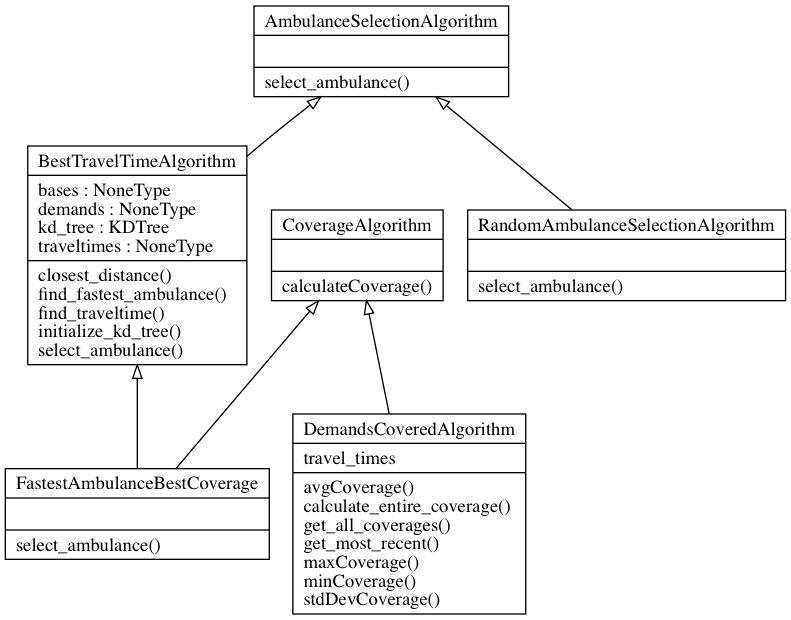
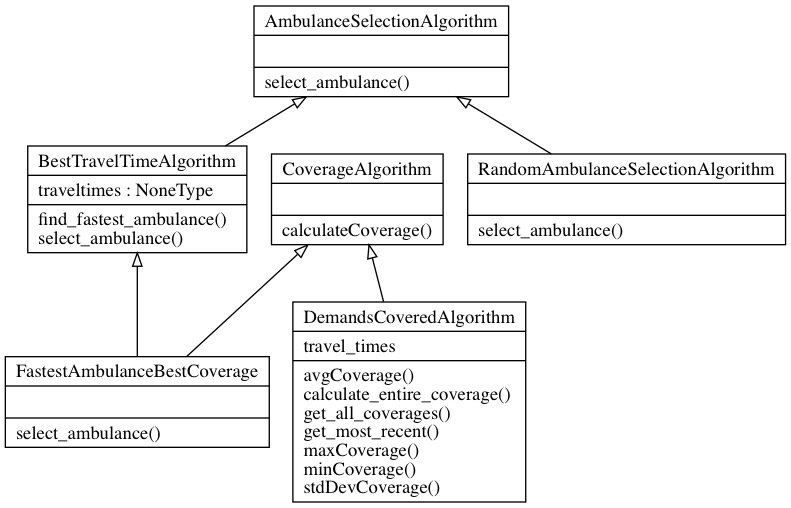
first wave of refactoring towards OOP done, sim appears to work

Changed region(s): [[0.0, 0.2362, 1.0, 1.0], [0.0303, 0.2067, 0.3641, 0.6201], [0.3034, 0.0, 0.6372, 0.2362]]

diff --git a/ems/algorithms/dispatch_fastest_ambulance.py b/ems/algorithms/dispatch_fastest_ambulance.py
@@ -2,20 +2,12 @@
 from datetime import timedelta
 from typing import List
 
-import geopy
-import geopy.distance
-import numpy as np
-
-from copy import deepcopy
-
-from scipy.spatial import KDTree
-
 from ems.algorithms.ambulance_selection import AmbulanceSelectionAlgorithm
 from ems.data.traveltimes import TravelTimes
 from ems.models.ambulance import Ambulance
-from ems.models.base import Base
+# from ems.models.base import Base
 from ems.models.case import Case
-from ems.models.demand import Demand
+# from ems.models.demand import Demand
 
 
 # An implementation of a "fastest travel time" ambulance_selection from a base to
@@ -24,21 +16,19 @@ from ems.models.demand import Demand
 class BestTravelTimeAlgorithm(AmbulanceSelectionAlgorithm):
 
     def __init__(self,
-                 bases: List[Base] = None,
-                 demands: List[Demand] = None,
                  traveltimes: TravelTimes = None):
-        self.bases = bases
-        self.demands = demands
+
         self.traveltimes = traveltimes
 
-        self.kd_tree = self.initialize_kd_tree(demands)
+        # self.kd_tree = self.initialize_kd_tree(demands)
 
     def select_ambulance(self,
                          ambulances: List[Ambulance],
                          case: Case):
 
         # Compute the closest demand point to the case location
-        closest_demand = self.closest_distance(self.demands, case.location)
+        # import IPython; IPython.embed()
+        closest_demand = self.traveltimes.find_nearest_demand(case.location)
 
         # Select an ambulance to attend to the given case and obtain the its duration of travel
         chosen_ambulance, ambulance_travel_time = self.find_fastest_ambulance(
@@ -50,19 +40,7 @@ class BestTravelTimeAlgorithm(AmbulanceSelectionAlgorithm):
         return {'choice': chosen_ambulance,
                 'travel_time': ambulance_travel_time}
 
-    def closest_distance(self, list_type, target_point):
-        """
-        Finds the closest point in the corresponding generic list.
-        For example, find the closest base given a GPS location.
-        :param list_type:
-        :param target_point:
-        :return: the position in that list
-        """
 
-        # Query kd tree for nearest neighbor
-        closest_point_ind = self.kd_tree.query((target_point.longitude, target_point.latitude))[1]
-
-        return list_type[closest_point_ind]
 
     def find_fastest_ambulance(self, ambulances, traveltimes, demand):
         """
@@ -79,7 +57,8 @@ class BestTravelTimeAlgorithm(AmbulanceSelectionAlgorithm):
 
         for amb in ambulances:
             if not amb.deployed:
-                time = self.find_traveltime(traveltimes, amb.base, demand)
+                # import IPython; IPython.embed()
+                time = traveltimes.get_time(amb.base, demand)
                 if shortest_time > time:
                     shortest_time = time
                     fastest_amb = amb
@@ -89,22 +68,9 @@ class BestTravelTimeAlgorithm(AmbulanceSelectionAlgorithm):
 
         return None, None
 
-    def find_traveltime(self, traveltimes, base, demand):
-        """
-        Takes the travel time mapping, starting base, and ending demand to find time.
-        :param base:
-        :param demand:
-        :return travel time:
-        """
 
-        return traveltimes.get_time(base, demand)
 
-    def initialize_kd_tree(self, demands):
 
-        # Form a kd-tree
-        points = [(demand.location.longitude, demand.location.latitude) for demand in demands]
-        kd_tree = KDTree(points)
-        return kd_tree
 
 
 

diff --git a/ems/data/traveltimes.py b/ems/data/traveltimes.py
@@ -1,26 +1,37 @@
 from datetime import timedelta
 
+from typing import Type
+
 from ems.models.location_set import LocationSet
+from scipy.spatial import KDTree
+from ems.models.base import Base
+from ems.models.case import Demand
+from geopy import Point
 import numpy as np
 
 
-# Wrapper class around a travel times data frame
 
 class TravelTimes:
+    """
+
+    """
 
     def __init__(self, bases:LocationSet, demands:LocationSet, times: np.ndarray):
         """
 
-        :type times: Pandas dataframe
+        :param bases:
+        :param demands:
+        :param times:
         """
-        self.bases = bases
-        self.demands = demands
-        self.times = times
 
-        #TODO
-        # self.kd_tree = self.initialize_kd_tree(demands)
+        # import IPython; IPython.embed()
+        self.bases:LocationSet = bases
+        self.demands:LocationSet = demands
+        self.times:np.ndarray = times
 
-    def get_time(self, base, demand):
+
+
+    def get_time(self, base:Base, demand:Demand):
         """
         Retrieves the travel time from the input base and demand point.
 
@@ -31,4 +42,11 @@ class TravelTimes:
         time = int(self.times[base.id][demand.id])
 
         return timedelta(seconds=time)
+
+
+    def find_nearest_base(self, target_point:Point):
+        return self.bases.closest(target_point)[0]
+
+    def find_nearest_demand(self, target_point:Point):
+        return self.demands.closest(target_point)[0]
 

diff --git a/ems/data/tijuana.py b/ems/data/tijuana.py
@@ -25,11 +25,16 @@ class CSVTijuanaDataset(Dataset):
         self.demands, self.demands_df = self.read_demands(demands_filepath)
         self.bases, self.bases_df = self.read_bases(bases_filepath)
         self.cases, self.cases_df = self.read_cases(cases_filepath)
-        self.traveltimes = self.read_times(traveltimes_filepath)
+
+
 
         # TODO
         self.basesLS = LocationSet(self.bases)
         self.demandsLS = LocationSet(self.demands)
+
+        self.traveltimes, self.traveltimes_df = self.read_times(traveltimes_filepath)
+
+        # self.traveltimes = TravelTimes(self.basesLS, self.demandsLS, )
 
 
     # Helper functions
@@ -95,10 +100,12 @@ class CSVTijuanaDataset(Dataset):
     def read_times(self, filename):
         # Read travel times from CSV file into a pandas dataframe
         traveltimes_df = pd.read_csv(filename)
+        # import IPython; IPython.embed()
 
-        traveltimes = TravelTimes(self.bases_df, self.demands_df, traveltimes_df.as_matrix())
 
-        return traveltimes
+        traveltimes = TravelTimes(self.basesLS, self.demandsLS, traveltimes_df.as_matrix())
+
+        return traveltimes, traveltimes_df
 
     # Implementation
     def get_bases(self):

diff --git a/main.py b/main.py
@@ -41,9 +41,7 @@ dataset = CSVTijuanaDataset(demands_filepath=settings.demands_file,
                             traveltimes_filepath=settings.traveltimes_file)
 
 # Initialize ambulance_selection
-alg = BestTravelTimeAlgorithm(bases=dataset.bases,
-                              demands=dataset.demands,
-                              traveltimes=dataset.traveltimes)
+alg = BestTravelTimeAlgorithm(traveltimes=dataset.traveltimes)
 
 # Select bases
 chosen_bases = kmeans_select_bases(dataset.bases, dataset.traveltimes)

diff --git a/ems/models/case.py b/ems/models/case.py
@@ -14,6 +14,8 @@ class Case:
                  finish_time: datetime = None,
                  delay: timedelta = None,
                  closest_demand: Demand = None):
+
+
         self.id = id
         self.location = point
         self.weekday = weekday

diff --git a/ems/models/location_set.py b/ems/models/location_set.py
@@ -17,6 +17,7 @@ class LocationSet:
         """
 
         # Form a kd-tree
+
         points = [(demand.location.longitude, demand.location.latitude) for demand in self.locations]
         kd_tree = KDTree(points)
         return kd_tree

diff --git a/ems/algorithms/ambulance_selection.py b/ems/algorithms/ambulance_selection.py
@@ -3,7 +3,6 @@ from typing import List
 
 from ems.models.ambulance import Ambulance
 from ems.models.case import Case
-from ems.models.demand import Demand
 
 
 # Used by the sim to select ambulances
